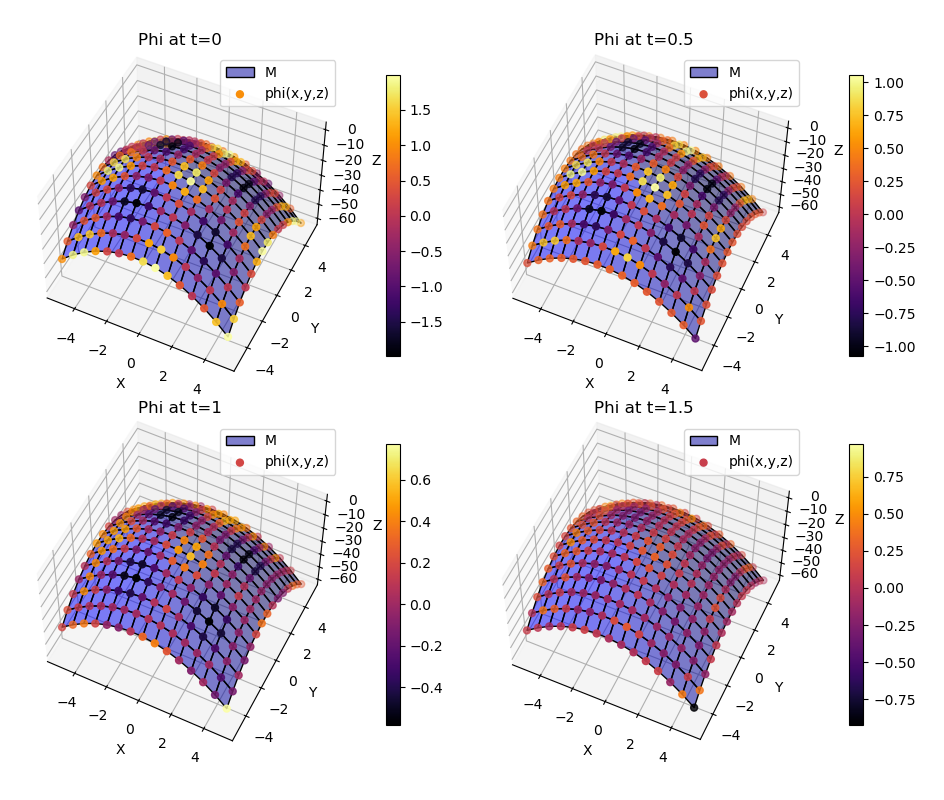
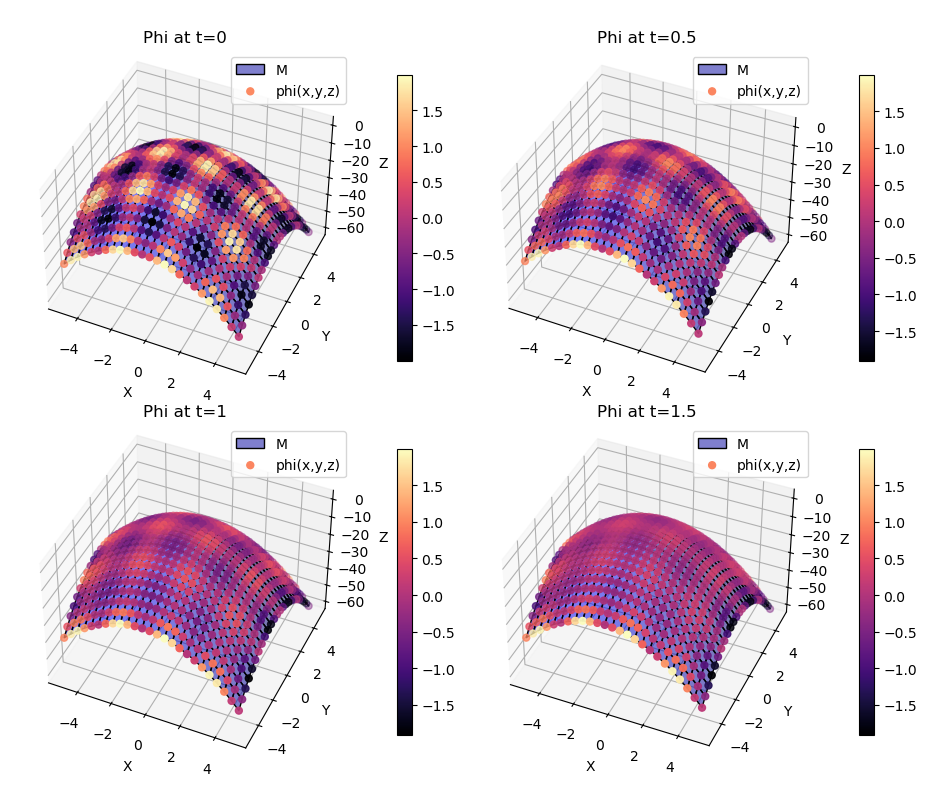
coords

diff --git a/src/manifold.py b/src/manifold.py
@@ -82,16 +82,26 @@ class Manifold:
     
 
     def coords(self, i: int, j: int) -> np.array:
+        """
+        Retrieve the coordinates of a point on the manifold at a given index.
 
-        rows, cols = self.x_mesh.shape
+        Parameters:
+        -----------
+        i : int
+            The row index for the point in the mesh grid.
+        j : int
+            The column index for the point in the mesh grid.
 
-        if i < 0 or i >= rows or j < 0 or j >= cols:
-            return np.array([0, 0, 0])
-        else:
-            return np.array([self.x_mesh[i, j], self.y_mesh[i, j], self.z_mesh[i, j]])
+        Returns:
+        --------
+        np.array
+            A 1D array containing the [x, y, z] coordinates of the point
+            located at position (i, j) in the manifold's mesh grid.
+        """
+        return np.array([self.x_mesh[i, j], self.y_mesh[i, j], self.z_mesh[i, j]])
 
 
-    def compute_laplace_beltrami(self, phi: np.array) -> np.array:
+    def laplace_beltrami(self, phi: np.array) -> np.array:
         """
         Computes the Laplace-Beltrami operator on the manifold for a given scalar field `phi`.
 
@@ -117,6 +127,11 @@ class Manifold:
 
         for i in range(rows):
             for j in range(cols):
+
+                # Boundary conditions
+                if i == 0 or j == 0 or i == rows - 1 or j == cols -1:
+                    laplace_beltrami[i + j * cols] = 0
+                    continue
 
                 sum: float = 0
                 phi_ij: float = get(i, j)
@@ -135,22 +150,23 @@ class Manifold:
         return np.array(laplace_beltrami)
     
 
-    def compute_non_uniform_laplace_beltrami(self, phi: np.array) -> np.array:
+    def non_uniform_laplace_beltrami(self, phi: np.array) -> np.array:
         """
-        Computes the Laplace-Beltrami operator on the manifold for a given scalar field `phi`.
+        Computes the Laplace-Beltrami operator on a non-uniform manifold for a given scalar field `phi`.
 
-        The Laplace-Beltrami operator is a generalization of the Laplacian to curved surfaces
-        and is used to describe the diffusion of scalar fields on the manifold.
+        This method generalizes the Laplace-Beltrami operator to non-uniform meshes by accounting for 
+        varying angles between the mesh points, using the cotangent formula for each point on the manifold.
 
         Parameters:
         -----------
         phi : np.array
-            A 1D array representing the scalar field on the manifold (same size as the mesh).
+            A 1D array representing the scalar field on the manifold (same size as the mesh grid).
 
         Returns:
         --------
         np.array
-            A 1D array representing the Laplace-Beltrami operator applied to the scalar field `phi`.
+            A 1D array representing the Laplace-Beltrami operator applied to the scalar field `phi`, 
+            accounting for the non-uniform geometry of the mesh.
         """
         rows, cols = self.x_mesh.shape
         laplace_beltrami: list[float] = [0] * (rows * cols)
@@ -161,6 +177,11 @@ class Manifold:
 
         for i in range(rows):
             for j in range(cols):
+
+                # Boundary conditions
+                if i == 0 or j == 0 or i == rows - 1 or j == cols -1:
+                    laplace_beltrami[i + j * cols] = 0
+                    continue
 
                 sum: float = 0
                 phi_ij: float = get(i, j)

diff --git a/src/heat-equation-test.py b/src/heat-equation-test.py
@@ -7,7 +7,7 @@ from manifold import *
 
 
 XY_LIMITS: tuple[int, int] = (-5, 5)
-XY_POINTS: int = 15
+XY_POINTS: int = 25
 
 
 def f(x_mesh, y_mesh):
@@ -87,11 +87,15 @@ def solve_heat_equation(phi: np.array, manifold: Manifold, alpha: float = 1.0, d
     np.array
         A 1D array representing the updated scalar field `phi` after one time step.
     """
-    laplace_beltrami = manifold.compute_laplace_beltrami(phi)
+    laplace_beltrami = manifold.laplace_beltrami(phi)
     rows, cols = manifold.x_mesh.shape
 
     for i in range(rows):
         for j in range(cols):
+
+            # Boundary conditions
+            if i == 0 or j == 0 or i == rows - 1 or j == cols - 1:
+                continue
 
             index: int = i + j * cols
 
@@ -118,7 +122,7 @@ if __name__ == "__main__":
     ax1 = fig.add_subplot(221, projection='3d')  # 2x2 grid, first plot
     ax1.plot_surface(manifold.x_mesh, manifold.y_mesh, manifold.z_mesh, color='blue', edgecolor='k', alpha=0.5, label='M')
 
-    scatter1 = ax1.scatter(manifold.x_mesh, manifold.y_mesh, manifold.z_mesh, c=phi, cmap='inferno', s=25, label='phi(x,y,z)')
+    scatter1 = ax1.scatter(manifold.x_mesh, manifold.y_mesh, manifold.z_mesh, c=phi, cmap='magma', s=25, label='phi(x,y,z)')
     fig.colorbar(scatter1, ax=ax1, pad=0.1, shrink=0.7, aspect=20)
 
     ax1.legend(loc='upper right')
@@ -134,7 +138,7 @@ if __name__ == "__main__":
     ax2 = fig.add_subplot(222, projection='3d')  # 2x2 grid, second plot
     ax2.plot_surface(manifold.x_mesh, manifold.y_mesh, manifold.z_mesh, color='blue', edgecolor='k', alpha=0.5, label='M')
 
-    scatter2 = ax2.scatter(manifold.x_mesh, manifold.y_mesh, manifold.z_mesh, c=phi, cmap='inferno', s=25, label='phi(x,y,z)')
+    scatter2 = ax2.scatter(manifold.x_mesh, manifold.y_mesh, manifold.z_mesh, c=phi, cmap='magma', s=25, label='phi(x,y,z)')
     fig.colorbar(scatter2, ax=ax2, pad=0.1, shrink=0.7, aspect=20)
 
     ax2.legend(loc='upper right')
@@ -150,7 +154,7 @@ if __name__ == "__main__":
     ax3 = fig.add_subplot(223, projection='3d')  # 2x2 grid, third plot
     ax3.plot_surface(manifold.x_mesh, manifold.y_mesh, manifold.z_mesh, color='blue', edgecolor='k', alpha=0.5, label='M')
 
-    scatter3 = ax3.scatter(manifold.x_mesh, manifold.y_mesh, manifold.z_mesh, c=phi, cmap='inferno', s=25, label='phi(x,y,z)')
+    scatter3 = ax3.scatter(manifold.x_mesh, manifold.y_mesh, manifold.z_mesh, c=phi, cmap='magma', s=25, label='phi(x,y,z)')
     fig.colorbar(scatter3, ax=ax3, pad=0.1, shrink=0.7, aspect=20)
 
     ax3.legend(loc='upper right')
@@ -166,7 +170,7 @@ if __name__ == "__main__":
     ax4 = fig.add_subplot(224, projection='3d')  # 2x2 grid, fourth plot
     ax4.plot_surface(manifold.x_mesh, manifold.y_mesh, manifold.z_mesh, color='blue', edgecolor='k', alpha=0.5, label='M')
 
-    scatter4 = ax4.scatter(manifold.x_mesh, manifold.y_mesh, manifold.z_mesh, c=phi, cmap='inferno', s=25, label='phi(x,y,z)')
+    scatter4 = ax4.scatter(manifold.x_mesh, manifold.y_mesh, manifold.z_mesh, c=phi, cmap='magma', s=25, label='phi(x,y,z)')
     fig.colorbar(scatter4, ax=ax4, pad=0.1, shrink=0.7, aspect=20)
 
     ax4.legend(loc='upper right')

diff --git a/src/laplacian-test.py b/src/laplacian-test.py
@@ -7,7 +7,7 @@ from manifold import *
 
 
 XY_LIMITS: tuple[int, int] = (-5, 5)
-XY_POINTS: int = 15
+XY_POINTS: int = 25
 
 
 def f(x_mesh, y_mesh):
@@ -65,7 +65,7 @@ if __name__ == "__main__":
     manifold: Manifold = Manifold.create_manifold(f, XY_LIMITS, XY_LIMITS, XY_POINTS)
 
     phi = compute_phi(manifold)
-    laplace_beltrami = manifold.compute_laplace_beltrami(phi)
+    laplace_beltrami = manifold.laplace_beltrami(phi)
 
     fig = plt.figure(figsize=(12, 6))
 
@@ -73,7 +73,7 @@ if __name__ == "__main__":
     ax1 = fig.add_subplot(121, projection='3d')
     ax1.plot_surface(manifold.x_mesh, manifold.y_mesh, manifold.z_mesh, color='blue', edgecolor='k', alpha=0.5, label='M')
 
-    scatter1 = ax1.scatter(manifold.x_mesh, manifold.y_mesh, manifold.z_mesh, c=phi, cmap='coolwarm', s=25, label='phi(x,y,z)')
+    scatter1 = ax1.scatter(manifold.x_mesh, manifold.y_mesh, manifold.z_mesh, c=phi, cmap='coolwarm', s=25, label='phi')
     fig.colorbar(scatter1, ax=ax1, pad=0.1, shrink=0.7, aspect=20)
 
     ax1.legend(loc='upper right')
@@ -87,7 +87,7 @@ if __name__ == "__main__":
     ax2 = fig.add_subplot(122, projection='3d')
     ax2.plot_surface(manifold.x_mesh, manifold.y_mesh, manifold.z_mesh, color='blue', edgecolor='k', alpha=0.5, label='M')
 
-    scatter2 = ax2.scatter(manifold.x_mesh, manifold.y_mesh, manifold.z_mesh, c=laplace_beltrami, cmap='magma', s=25, label='Laplace Beltrami')
+    scatter2 = ax2.scatter(manifold.x_mesh, manifold.y_mesh, manifold.z_mesh, c=laplace_beltrami, cmap='magma', s=25, label='Laplace-Beltrami')
     fig.colorbar(scatter2, ax=ax2, pad=0.1, shrink=0.7, aspect=20)
 
     ax2.legend(loc='upper right')

diff --git a/README.md b/README.md
@@ -15,7 +15,7 @@ In practice, a very simple discretization can actually work quite well—especia
 $$\left(L\phi\right)_i := \frac{1}{2}\sum_{ij}\left( \cot \alpha_{ij} + \cot \beta_{ij} \right)\left( \phi_j  - \phi_i \right)$$
 ```
 
-In other words: the Laplacian of the function u at vertex $i$ is obtained by summing up the difference across all edges $ij$ incident on $i$, weighted by the sum of the cotangents of the two interior angles $\alpha_{ij}$, $\beta_{ij}$ opposite $ij$.
+In other words: the Laplacian of the function $\phi$ at vertex $i$ is obtained by summing up the difference across all edges $ij$ incident on $i$, weighted by the sum of the cotangents of the two interior angles $\alpha_{ij}$, $\beta_{ij}$ opposite $ij$.
 
 ## Partial differential equations
 It can be used for solving/approximating the [poisson equation](https://en.wikipedia.org/wiki/Poisson%27s_equation), [diffusion equation](https://en.wikipedia.org/wiki/Diffusion_equation), [heat equation](https://en.wikipedia.org/wiki/Heat_equation), [wave equation](https://en.wikipedia.org/wiki/Wave_equation) or any other equation which involves the `laplacian`.
@@ -23,7 +23,7 @@ It can be used for solving/approximating the [poisson equation](https://en.wikip
 ### Heat equation
 As the prototypical parabolic partial differential equation, the heat equation is among the most widely studied topics in pure mathematics, and its analysis is regarded as fundamental to the broader field of partial differential equations. The heat equation can also be considered on Riemannian manifolds, leading to many geometric applications:
 
-$$\frac{\partial u}{\partial t} = \alpha \Delta u$$
+$$\frac{\partial \phi}{\partial t} = \alpha \Delta \phi$$
 
 ![](img/heat.png)
 
